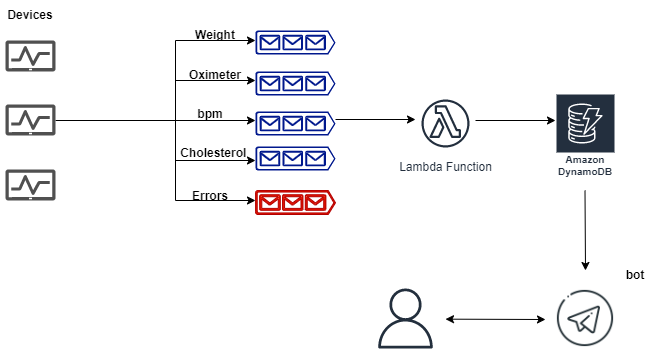
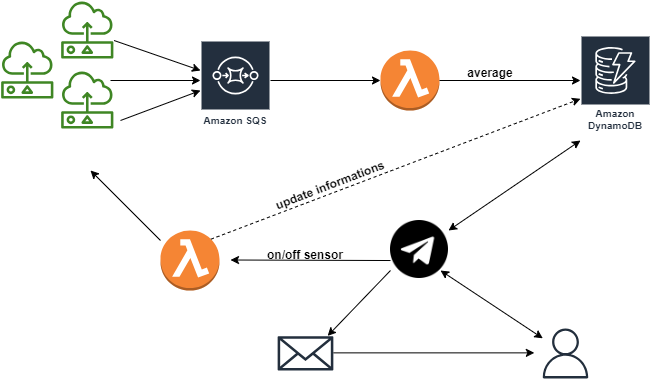
docs

diff --git a/README.md b/README.md
@@ -20,7 +20,11 @@ SeaScan is a simulation of IoT sensors that collect data across multiple beach z
 - a status that indicates if the sensor is on or off
 
 ### Project's architecture
-*ToDo*
+Sensors write their parameters on SQS queues. A lambda calculates the average parameters and then sends the result in DynamoDB.
+A user can access those informations by interacting with a Telegram bot. The user can also request all the information and the bot sends an email to the specified address.
+The user can also decide to switch on or off the sensors, by giving command to the bot that triggers another lambda function
+
+![architecture](./images/architecture.png)
 
 ## How to run this project
 ### Prerequisites
@@ -73,7 +77,8 @@ If you want to run this script manually:
 - create a new aws role with <code>aws iam create-role --role-name lambdarole --assume-role-policy-document file://role_policy.json --query 'Role.Arn' --endpoint-url=http://localhost:4566</code>
 - attach the policy <code>aws iam put-role-policy --role-name lambdarole --policy-name lambdapolicy --policy-document file://policy.json --endpoint-url=http://localhost:4566</code>
 - create the average function and save the Arn <code>aws lambda create-function --function-name average --zip-file fileb://functions.zip --handler deploy/average.lambdaHandler --runtime nodejs18.x --role arn:aws:iam::000000000000:role/lambdarole --endpoint-url=http://localhost:4566</code>
-- start the script for populating the Database and for simulating the device <code>npm run setup</code> 
+- start the script for populating the Database and for simulating the device <code>npm run setup</code>
+- install bot's dependencies with <code>pip install -r requirements.txt</code>
 - start the bot by writing: <code>python bot/bot.py</code>
 
 ## Future developments
